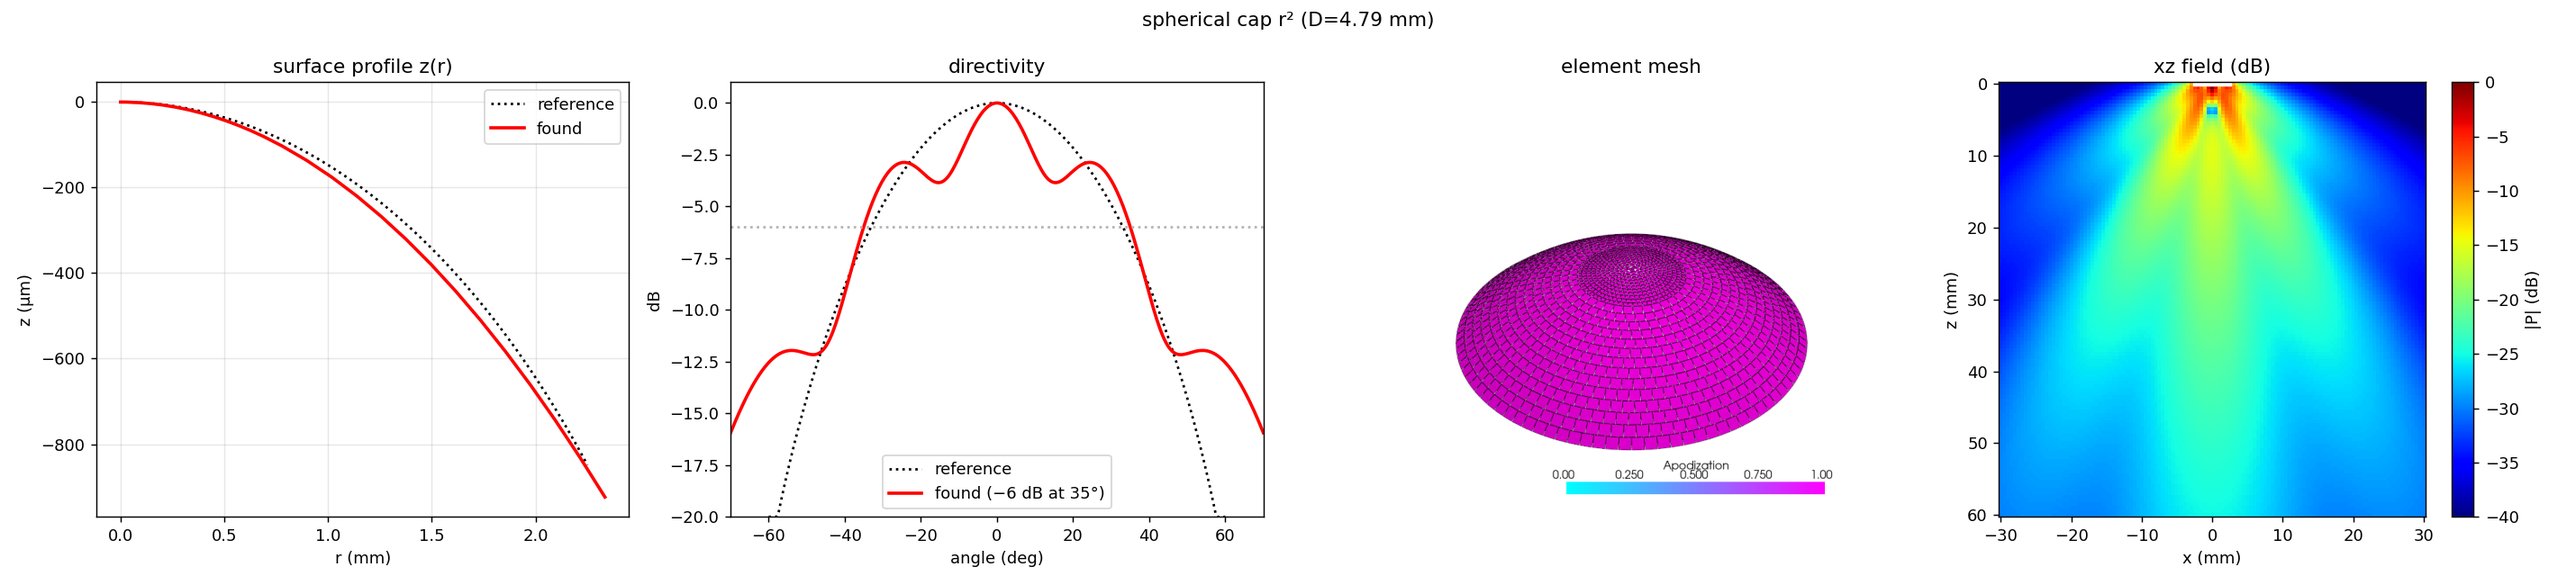
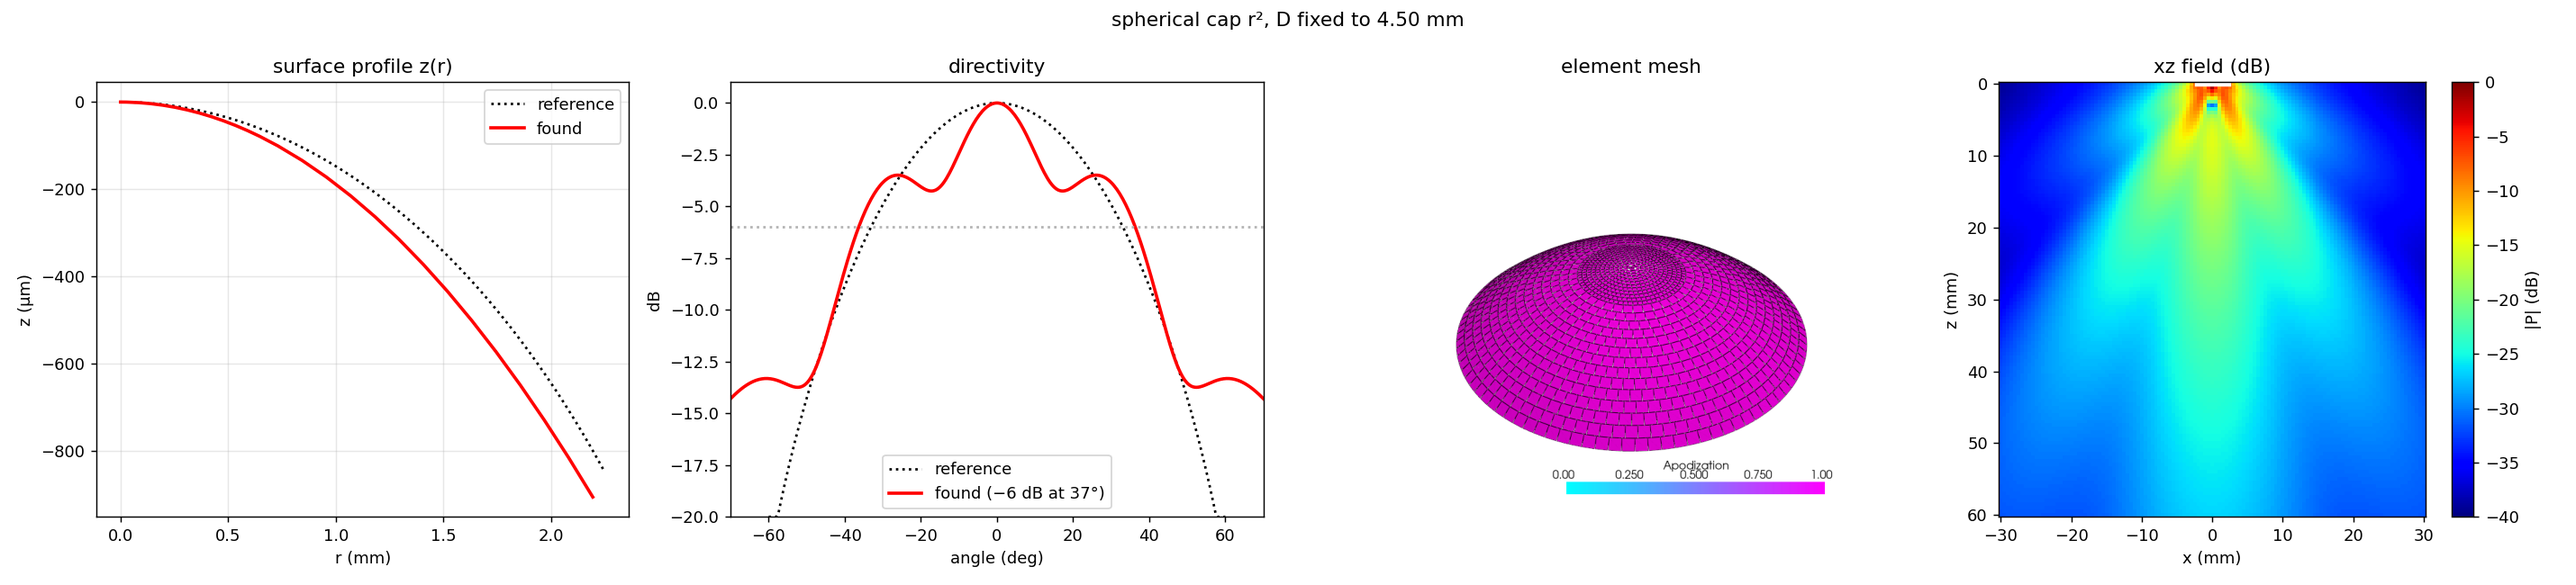
fix(examples): fit example23 main lobe (+-40 deg), fixed-aperture sphere + multistart aspheric for reproducibility

diff --git a/examples/example23_optimize_radial_element.py b/examples/example23_optimize_radial_element.py
@@ -10,10 +10,10 @@ bell crossing −6 dB at 33.17°):
 
 1. **refractive doublet** — the paper's lens itself, collapsed through a refractive-index
    (Snell) model to one effective cap ``z(r) = −(n₂−n₁)·(R−√(R²−r²))`` (no optimization).
-2. **spherical cap (r²)** — a single-term convex cap ``z(r) = −λ·c₀·(r/R)²``, with
-   ``c₀`` and the diameter tuned to the bell.
-3. **free aspheric** — four even-power terms ``z(r) = −λ·Σ c_k·(r/R)^{2(k+1)}``, tuned
-   freely (coefficients may go negative, giving a non-convex aspheric surface).
+2. **spherical cap (r²)** — a single-term convex cap ``z(r) = −λ·c₀·(r/R)²``, with ``c₀``
+   fitted on the paper's real 4.5 mm aperture (diameter fixed).
+3. **free aspheric** — four even-power terms ``z(r) = −λ·Σ c_k·(r/R)^{2(k+1)}``, fitted
+   freely including the diameter (coefficients may go negative → a non-convex aspheric).
 
 The surface is even in ``r`` (axisymmetric, apex pinned to z=0), so only even powers
 appear. Each cap is shown with `plotting.visualize_element`: surface profile and
@@ -39,7 +39,7 @@ C0, FC = 1540.0, 1e6
 LAMBDA_MM = C0 / FC * 1e3
 TARGET_HALF_DEG = 33.17  # paper's measured −6 dB half-angle with the lens
 ANGLE = np.linspace(-60, 60, 241)
-FIT = np.abs(ANGLE) <= 50.0  # fit the bell over ±50°
+FIT = np.abs(ANGLE) <= 40.0  # fit the main lobe (±40°), where the bell shape matters
 D_BOUNDS = (2.5, 5.5)
 
 # Paper's doublet collapsed to one effective diverging cap (both faces R = 3.2 mm,
@@ -103,10 +103,13 @@ reference_db = np.clip(
 )
 
 
-def optimize_cap(n_terms, coeff_bounds):
-    """Fit ``n_terms`` even-power coefficients + diameter to the bell, seeded from the
-    physical cap. ``coeff_bounds`` of ``(0, +)`` forces a convex diverging cap;
-    allowing negatives lets the surface become a non-convex aspheric."""
+def optimize_cap(n_terms, coeff_bounds, diameter_mm=None):
+    """Fit ``n_terms`` even-power coefficients to the bell, seeded from the physical cap.
+
+    ``coeff_bounds`` of ``(0, +)`` forces a convex diverging cap; allowing negatives
+    lets the surface become a non-convex aspheric. If ``diameter_mm`` is given the
+    diameter is fixed (only the shape is fitted — e.g. the sphere on the paper's real
+    4.5 mm aperture); otherwise it is a free variable found by multistart."""
     r = np.linspace(0.0, D_PHYS_MM / 2 * 1e-3, 400)
     u = r / (D_PHYS_MM / 2 * 1e-3)
     basis = np.stack([u ** (2 * (k + 1)) for k in range(n_terms)], 1)
@@ -124,20 +127,30 @@ def optimize_cap(n_terms, coeff_bounds):
             np.mean((np.clip(dir_db, -20, None)[FIT] - reference_db[FIT]) ** 2)
         )
 
-    # Bounds hold D and the coeffs in range directly; clipping inside the loss would
-    # instead flatten the objective past the edge and let the simplex drift there.
-    res = minimize(
-        loss,
-        np.r_[D_PHYS_MM, seed],
-        method="Nelder-Mead",
-        bounds=[D_BOUNDS] + [coeff_bounds] * n_terms,
-        options={"maxiter": 600, "xatol": 1e-4, "fatol": 1e-7},
-    )
-    return float(res.x[0]), res.x[1:]
+    # Multistart over the diameter: with a free diameter the loss vs D is multimodal
+    # (a narrow best basin plus a flat shelf at the large-D bound), so a single
+    # Nelder-Mead from one start can walk to the bound and is not reproducible. Restart
+    # from a few diameters and keep the lowest-MSE result. A fixed diameter needs one.
+    if diameter_mm is None:
+        starts, d_bound = [np.r_[d0, seed] for d0 in (3.0, 3.7, 4.5, 5.2)], D_BOUNDS
+    else:
+        starts, d_bound = [np.r_[diameter_mm, seed]], (diameter_mm, diameter_mm)
+    best = None
+    for x0 in starts:
+        res = minimize(
+            loss,
+            x0,
+            method="Nelder-Mead",
+            bounds=[d_bound] + [coeff_bounds] * n_terms,
+            options={"maxiter": 400, "xatol": 1e-3, "fatol": 1e-6},
+        )
+        if best is None or res.fun < best.fun:
+            best = res
+    return float(best.x[0]), best.x[1:]
 
 
 # Build the three candidate caps. The refractive doublet is the exact Snell sag (no fit);
-# the other two fit even-power coefficients + diameter to the bell.
+# the sphere fits one convex term at the paper aperture; the aspheric fits four terms + D.
 el_refr = RadialProfileTransducer(
     diameter_mm=D_PHYS_MM,
     surface_sag_m=physical_sag,
@@ -146,14 +159,18 @@ el_refr = RadialProfileTransducer(
     ratio_big_patches=0.7,
     refine_factor=2,
 )
-D_sph, c_sph = optimize_cap(1, (0.0, 3.0))  # strictly r², convex → unique physical cap
-D_asp, c_asp = optimize_cap(4, (-3.0, 3.0))  # free even polynomial, may be non-convex
+D_sph, c_sph = optimize_cap(
+    1, (0.0, 3.0), diameter_mm=D_PHYS_MM
+)  # sphere on the paper aperture
+D_asp, c_asp = optimize_cap(
+    4, (-2.0, 2.0)
+)  # free even polynomial (size floats), may be non-convex
 el_sph = make_element(D_sph, c_sph)
 el_asp = make_element(D_asp, c_asp)
 
 models = [
     (el_refr, "refractive doublet (D=4.50 mm)", "refraction"),
-    (el_sph, f"spherical cap r² (D={D_sph:.2f} mm)", "spherical"),
+    (el_sph, f"spherical cap r², D fixed to {D_sph:.2f} mm", "spherical"),
     (el_asp, f"free aspheric, 4 terms (D={D_asp:.2f} mm)", "aspheric"),
 ]
 for el, name, _tag in models:

diff --git a/docs/examples/example23_optimize_radial_element.md b/docs/examples/example23_optimize_radial_element.md
@@ -14,10 +14,10 @@ builds three candidate caps and compares each against the paper's measured direc
 
 1. **refractive doublet** — the paper's lens, collapsed through a refractive-index
    (Snell) model to one effective cap `z(r) = −(n₂−n₁)·(R−√(R²−r²))` (no optimization).
-2. **spherical cap (r²)** — a single convex term `z(r) = −λ·c₀·(r/R)²`, with `c₀` and
-   the diameter tuned to the bell.
-3. **free aspheric** — four even-power terms `z(r) = −λ·Σ cₖ(r/R)^{2(k+1)}`, tuned
-   freely (coefficients may go negative → a non-convex aspheric surface).
+2. **spherical cap (r²)** — a single convex term `z(r) = −λ·c₀·(r/R)²`, with `c₀` fitted
+   on the paper's real 4.5 mm aperture (diameter fixed).
+3. **free aspheric** — four even-power terms `z(r) = −λ·Σ cₖ(r/R)^{2(k+1)}`, fitted
+   freely including the diameter (coefficients may go negative → a non-convex aspheric).
 
 [Source on GitHub](https://github.com/EstebanRivera08/eSDIva/blob/main/examples/example23_optimize_radial_element.py)
 
@@ -55,20 +55,23 @@ from scipy.optimize import minimize
 from scipy.special import j1
 from esdiva import Emission
 
-# loss = mean-squared dB mismatch against the jinc bell inside ±50°, minimized over
-# (diameter, coefficients) with BOUNDED Nelder–Mead — the bounds keep D and the coeffs
-# in range directly; clipping them inside the loss would flatten the objective past the
-# edge and the simplex would drift onto that plateau.
+# loss = mean-squared dB mismatch against the jinc bell inside the main lobe (±40°),
+# with BOUNDED Nelder–Mead — the bounds keep D and the coeffs in range directly;
+# clipping them inside the loss would flatten the objective past the edge and the
+# simplex would drift onto that plateau. With a FREE diameter the loss vs D is
+# multimodal, so the free-aspheric fit restarts from several diameters (multistart)
+# and keeps the lowest-MSE result — a single start is not reproducible.
 res = minimize(loss, x0, method="Nelder-Mead",
                bounds=[(2.5, 5.5)] + [coeff_bounds] * n_terms)
 ```
 
 !!! note "Well-posedness"
     Matching the main lobe alone is **under-determined** — a smooth convex cap and a
-    central-dimple aspheric fit the same bell — so the recovered surface would otherwise
-    depend on the optimizer, not the physics. The **spherical** model resolves this by
-    construction (one convex term); the **free aspheric** keeps the extra freedom and is
-    shown as the richer, non-unique alternative.
+    central-dimple aspheric fit the same bell, and with a free diameter Nelder–Mead can
+    even walk to the diameter bound. Two guards make the example reproducible: the
+    **spherical** cap is fitted at the paper's **fixed** 4.5 mm aperture (one convex
+    term, unique by construction), and the **free aspheric** uses **multistart** over
+    the diameter and keeps the lowest-MSE basin.
 
 ---
 
@@ -76,9 +79,9 @@ res = minimize(loss, x0, method="Nelder-Mead",
 
 Each is shown with the same four panels: **surface profile** `z(r)` and **directivity**
 (found solid-red vs reference dotted-black), the patch **mesh**, and the **xz** pressure
-plane. The refractive doublet reaches ~30°; the two fitted caps reach ~34–35° (a single
-rigid cap cannot fully suppress the ±45° shoulder — spherical aberration — which the
-paper's real multilens removes).
+plane. The refractive doublet reaches ~30°, the free aspheric ~34°, and the fixed-aperture
+sphere overshoots to ~37° with an on-axis dip — a single rigid cap cannot fully suppress
+the ±45° shoulder (spherical aberration), which the paper's real multilens removes.
 
 ![Refractive doublet](assets/ex23_refraction.png)
 ![Spherical cap r²](assets/ex23_spherical.png)
